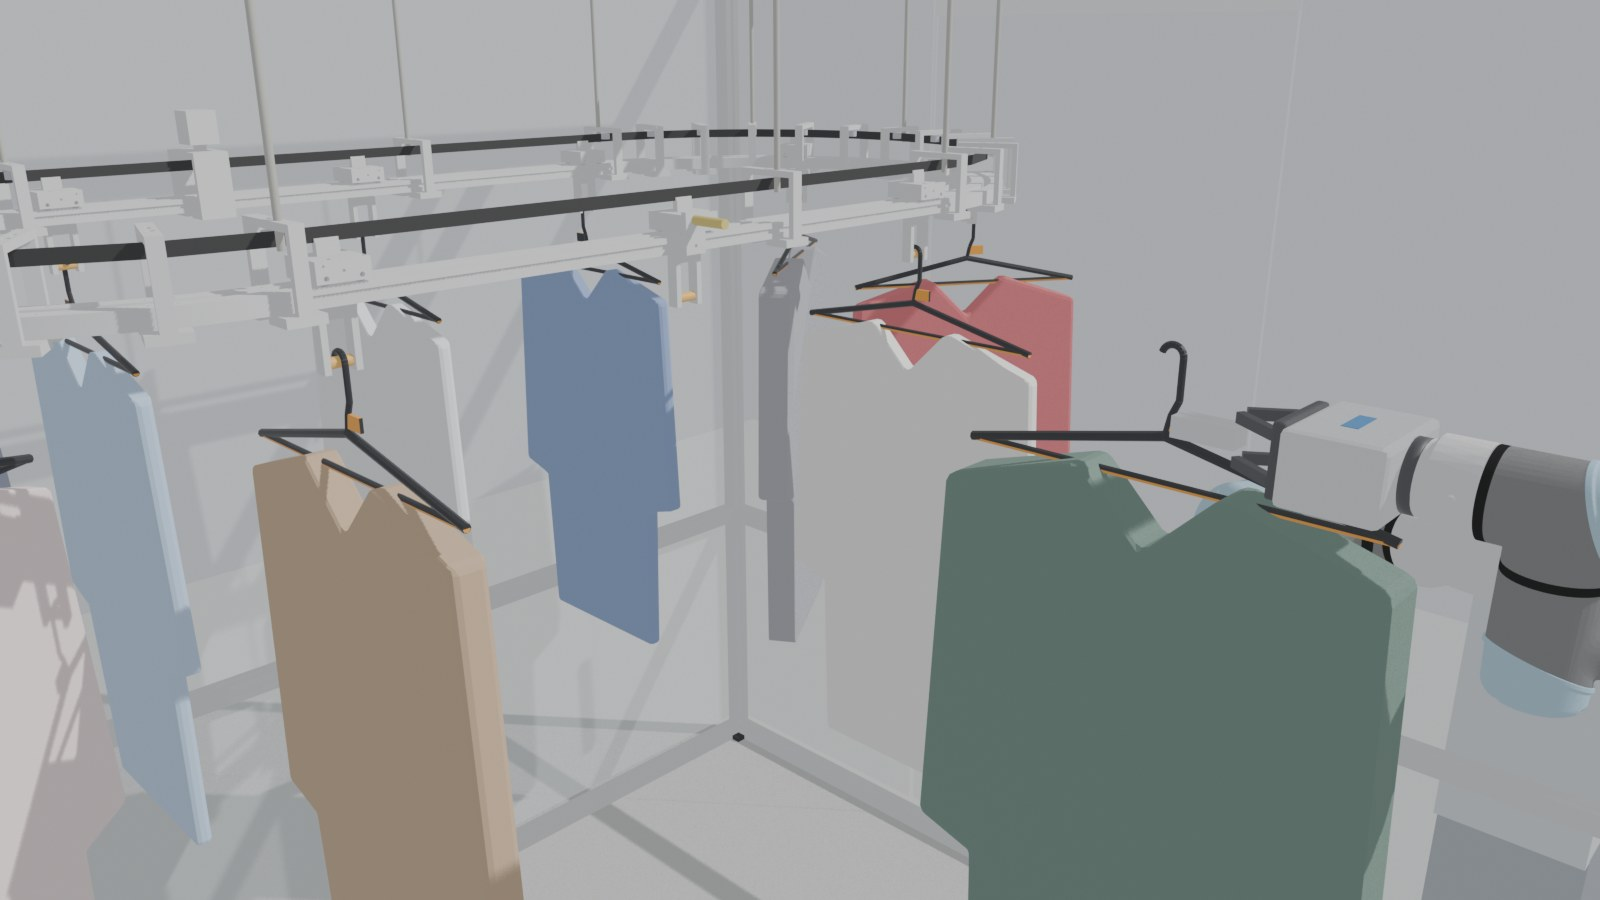
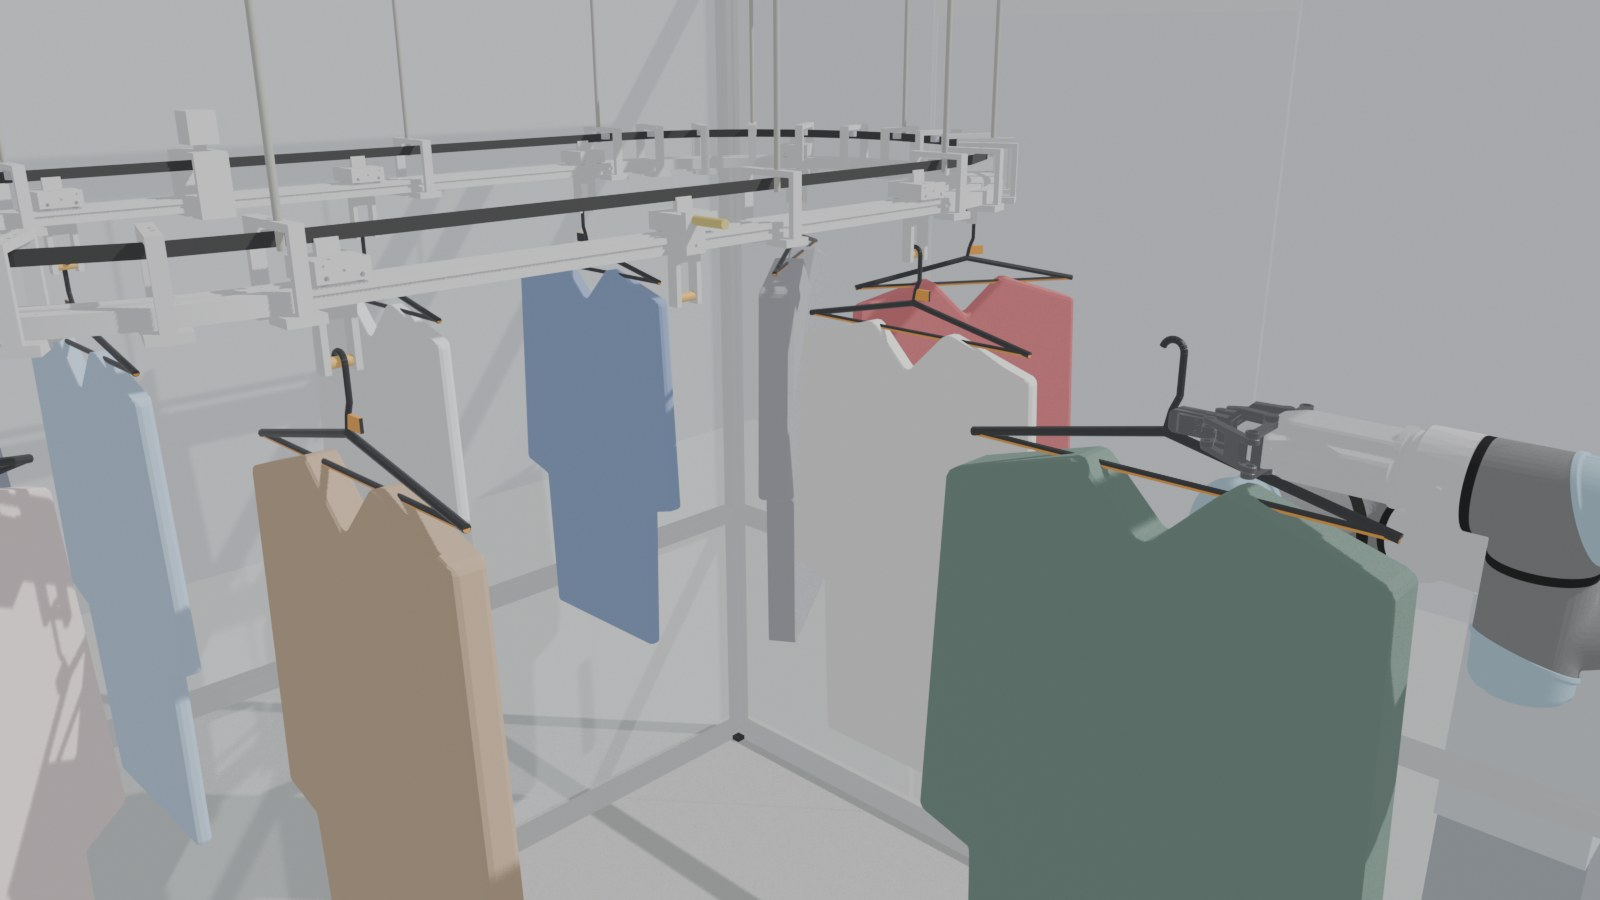
feat: use the official DH-Robotics AG-95 URDF meshes on the PoC gripper
Base and five linkage meshes from DH-Robotics/dh_gripper_ros (BSD per
package.xml), driven by the URDF mimic ratios; TCP 190 mm, tab grip at
0.615 rad. Shelf release reworked for the vertical fingers (TCP 80 mm
above the shelf, 16 mm opening, lift, then full open). Sampled cycle:
0 interference hits.

diff --git a/poc_2.5m_cell/README.md b/poc_2.5m_cell/README.md
@@ -13,13 +13,13 @@
 |---|---|
 | 셀 | 40×40 프로파일 2.5 × 2.5 × 2.2 m. 바깥면 아크릴 5 mm. 오른쪽 면에 정비문(0.8 m, 인터록) |
 | 로봇 | UR5e (공식 ROS 2 Description 메시, BSD-3). 받침대 0.9 m, 위치 (0.45, -0.62) m |
-| 그리퍼 | DH-Robotics AG-95 (AG-160-95) 적응형 전동 그리퍼(행정 95 mm, 45–160 N/조, 권장 하중 3 kg, 1.0 kg, 개폐 0.9 s). 하우징과 링크 핑거를 단순화한 외형이며 제조사 CAD는 아님. 맞춤 핑거 패드(60 mm)로 옷걸이 목의 주황 탭(4 mm)만 잡음. TCP는 플랜지에서 200 mm |
+| 그리퍼 | DH-Robotics AG-95 적응형 전동 그리퍼(행정 95 mm, 45–160 N/조, 권장 하중 3 kg, 1.0 kg, 개폐 0.9 s). 제조사 공식 URDF와 STL 메시를 그대로 사용([DH-Robotics/dh_gripper_ros](https://github.com/DH-Robotics/dh_gripper_ros), `package.xml` BSD). 링크 5종은 URDF의 mimic 비율로 연동. 기본 핑거로 옷걸이 목의 주황 탭(4 mm)을 잡음(조인트 0.615 rad). TCP는 플랜지에서 190 mm |
 | 컨베이어 | 타원 루프(직선 1.0 m + 끝 R400), 둘레 4.513 m, 캐리어 10개, 피치 451 mm. 핀 높이 1.65 m |
 | 수령 | 앞면 아크릴 개구부 1.0 × 0.35 m. 선반 높이 0.80 m(휠체어 접근 높이). 안쪽 0.45 m + 바깥 0.15 m |
 | 주문 | 스마트폰 앱 또는 셀 앞면 갤럭시 탭(벽 거치)에서 인증 |
 | 안전 | 개구부 바깥쪽 라이트 커튼(로봇은 이 면을 넘지 않음), E-stop, 신호탑, 정비문 인터록 |
 
-## 2. 시나리오 (1사이클, 47.2 s, Blender 1:1 타임라인)
+## 2. 시나리오 (1사이클, 46.9 s, Blender 1:1 타임라인)
 
 | 시간 (s) | 단계 |
 |---|---|
@@ -27,12 +27,12 @@
 | 2.0–7.5 | 컨베이어 인덱싱 1.35 m (3피치, 0.3 m/s, 0.3 m/s²) |
 | 7.5–8.0 | 근접센서(트롤리 M3 플래그)·RFID 확인, 정지 |
 | 8.0–14.2 | 로봇: 원점 → 탭 앞 60 mm → 직선 진입 → AG-95 닫힘 (0.9 s) |
-| 14.2–15.1 | 30 mm 리프트오프 (열린 후크가 핀에서 수직으로 빠짐, 포크 브리지와 4.5 mm 여유) |
-| 15.1–19.6 | 반경 방향 인출 0.53 m → 1.75 m로 상승 (밑단이 선반 립 위) |
+| 14.2–15.0 | 30 mm 리프트오프 (열린 후크가 핀에서 수직으로 빠짐, 포크 브리지와 4.5 mm 여유) |
+| 15.0–19.6 | 반경 방향 인출 0.53 m → 1.75 m로 상승 (밑단이 선반 립 위) |
 | 19.6–23.0 | 옷을 로봇 바깥쪽으로 회전 → J1만 47° 선회 (팔과 옷의 상대 위치가 바뀌지 않음) |
-| 23.0–33.8 | 선반 위에서 정렬 + 손목 90°(옷을 수평으로) → 하강 → 개구부 쪽으로 밀어 거치 |
-| 33.8–43.2 | 그리퍼 열림 → 후퇴 → 원점 복귀 |
-| 43.2–46.2 | 탭에 "수령하세요" 표시 → 고객이 개구부에서 옷걸이째 수령 |
+| 23.0–33.8 | 선반 위에서 정렬 + 손목 90°(옷을 수평으로) → 하강 → 개구부 쪽으로 밀어 거치 → 16 mm 열어 놓기 |
+| 33.8–42.9 | 60 mm 들어 올림 → 완전히 열기 → 후퇴 → 원점 복귀 |
+| 42.9–45.9 | 탭에 "수령하세요" 표시 → 고객이 개구부에서 옷걸이째 수령 |
 
 안전 규칙: 로봇이 원점에 있고 라이트 커튼이 정상일 때만 "수령하세요"를 띄웁니다. 커튼이 차단되면 로봇은 선반 구역 동작을 멈춥니다.
 컨베이어는 로봇이 원점에 있을 때만 인덱싱합니다.
@@ -71,7 +71,7 @@
 | Creo 파트 17종 | `design.py` 미리보기와 비교: STL bbox 일치(0.01 mm 이내), 부피 오차 0.34 % 이하, 모두 watertight |
 | Creo 어셈블리 `cv_conveyor.asm` | 컴포넌트 223개 배치 (실패 0) |
 | 컨베이어 간섭 | 정적 쌍 검사 + 캐리어가 1피치를 10 mm 간격으로 이동하며 스윕 검사 → 0건 |
-| 셀 사이클 간섭 | 로봇 7링크 + 그리퍼 + 든 옷 vs 프레임·아크릴·선반·컨베이어·다른 옷, 2프레임 간격 529샘플 → 0건 (DH AG-95 형상 포함) |
+| 셀 사이클 간섭 | 로봇 7링크 + 그리퍼 + 든 옷 vs 프레임·아크릴·선반·컨베이어·다른 옷, 2프레임 간격 524샘플 → 0건 (DH AG-95 공식 메시 포함) |
 
 검사하지 않은 것:
 - 샘플 사이의 순간 접촉, 옷의 유연 변형(강체로 가정), 로봇 자기 충돌, 동역학
@@ -95,7 +95,9 @@ Blender 장면(.blend)과 생성·검증 스크립트는 이 저장소에 올리
 
 - 탭 장착 옷걸이, 라이트 커튼, 컨트롤러 배선은 개념 수준입니다.
 - AG-95 권장 하중 3 kg이라 1.5 kg 재킷에도 여유가 있습니다.
-- 판매처마다 외형 치수가 다릅니다(134.5 × 162.3 × 53.6 mm, 184.6 × 162.3 × 67 mm). 실제 외형과 UR 플랜지 어댑터 사양은 DH-Robotics 데이터시트로 확인해야 합니다.
+- 그리퍼 형상은 DH 공식 URDF 메시(본체 93 × 67 × 138 mm)입니다. 다만 URDF의 링크 연동은 mimic 근사라서 실제 4절 링크와 조금 다릅니다.
+  UR 플랜지 어댑터는 모델에 넣지 않았습니다(본체 바닥을 플랜지에 바로 붙임).
+- 선반에서는 손목을 90° 돌린 뒤라 핑거가 세로로 섭니다. 그래서 TCP를 선반 위 80 mm에 두고 16 mm만 벌려 놓은 다음, 60 mm 들어 올린 뒤 완전히 엽니다.
 - 도면 치수는 Creo 뷰 위에 덧그린 주석이며 Creo 연관 치수가 아닙니다. 형상 원본은 Creo 파트입니다.
 - 실제 제작 전 확인할 것:
   - 벨트 이음부 인장 시험
